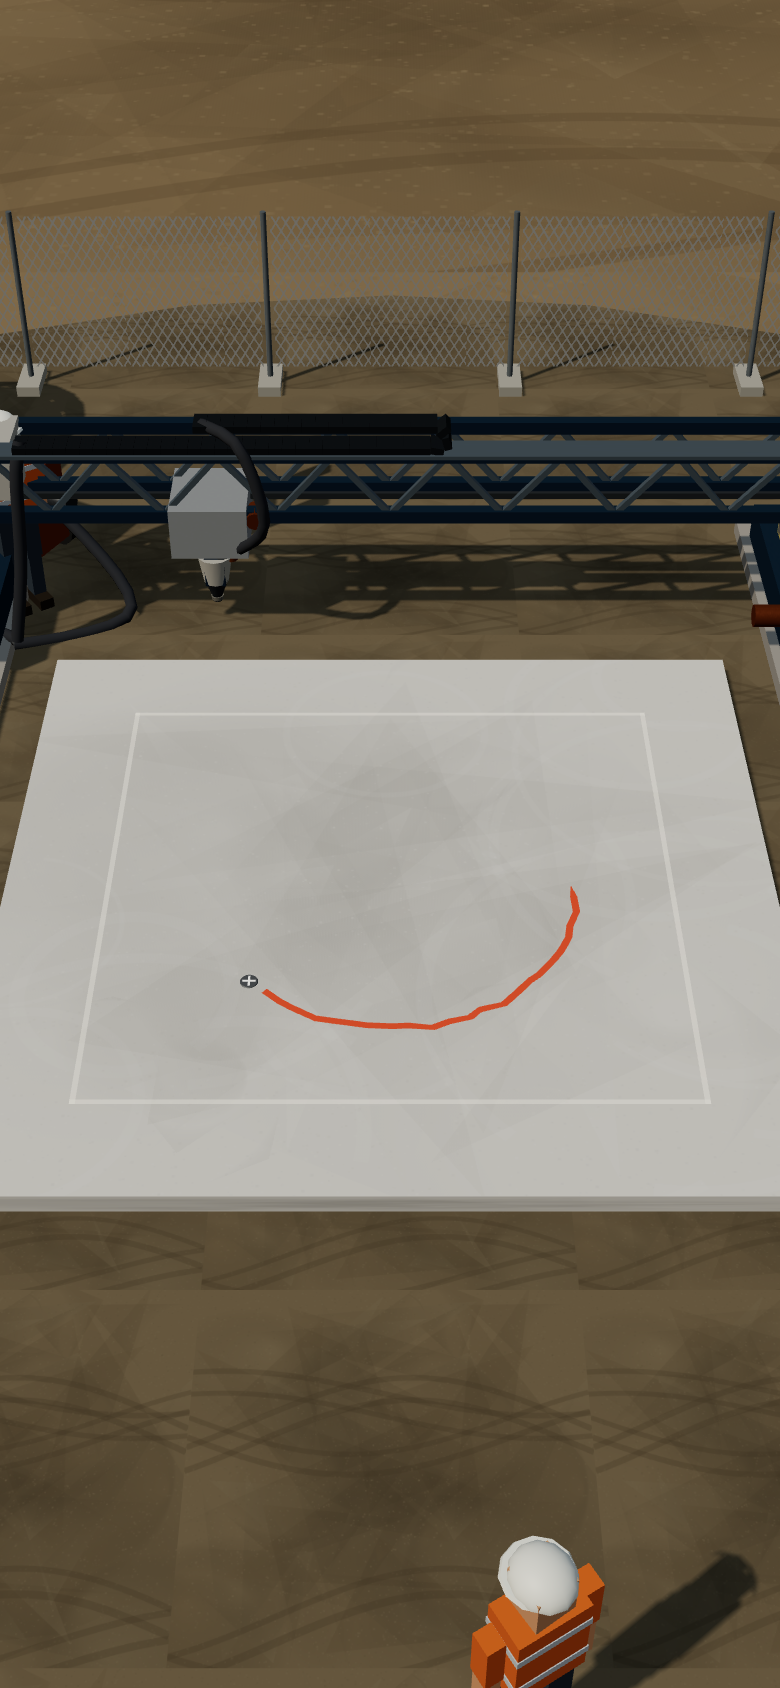
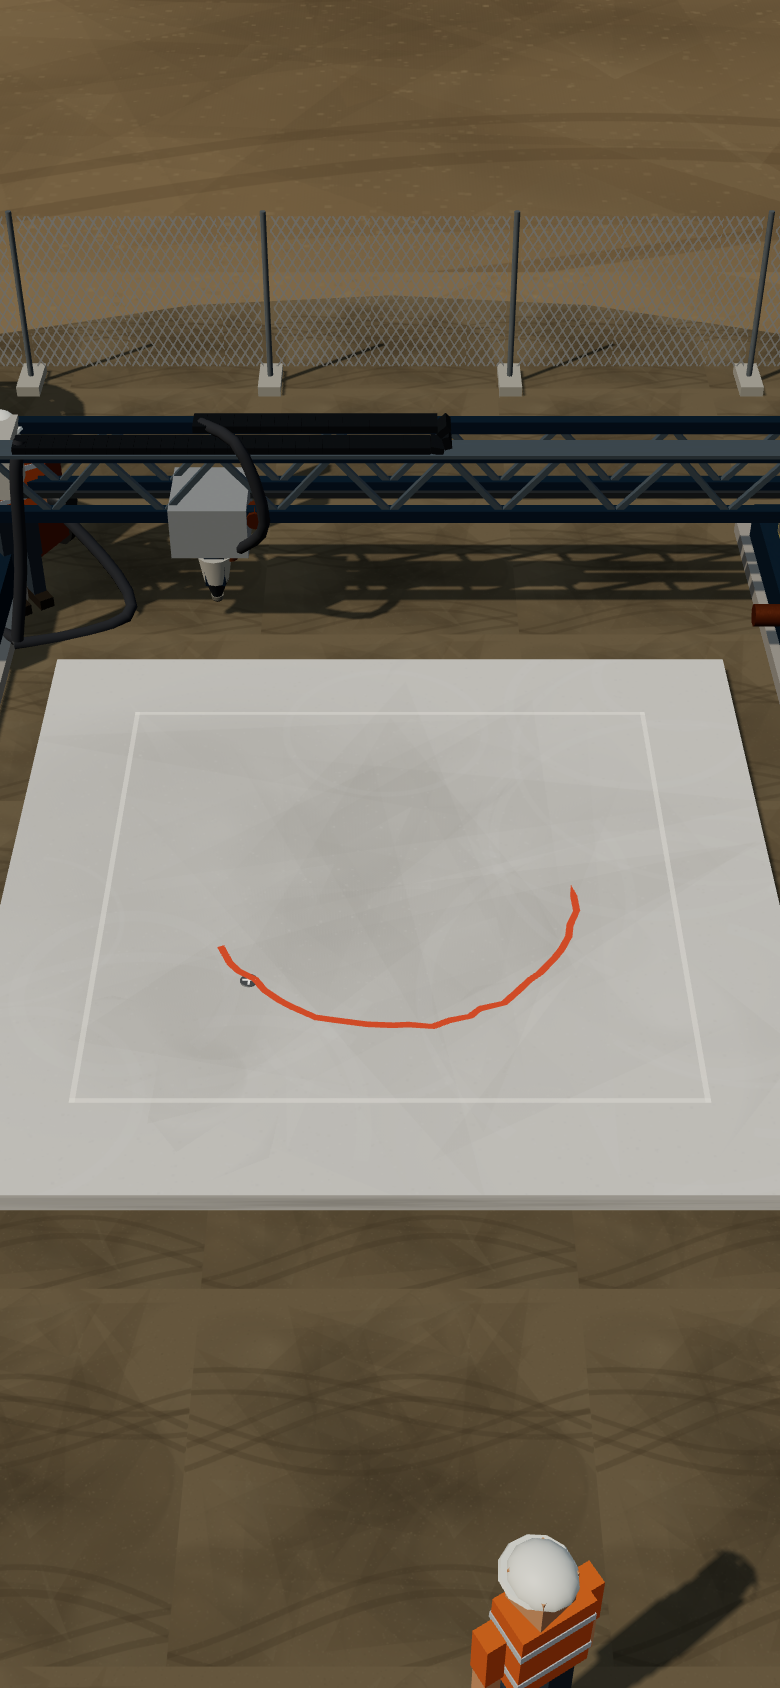
homing堅牢化（トラベル速度1.3m/s+開始保証）・検証タイムアウト調整・ブラインド判定用素材
Claude-Session: https://claude.ai/code/session_01YM9BXMVKQkXAStQHo3jTsD

Changed region(s): [[0.6154, 0.9242, 0.7692, 1.0], [0.2769, 0.5545, 0.3385, 0.5853], [0.6769, 0.8934, 0.7077, 0.9242]]

diff --git a/src/game.ts b/src/game.ts
@@ -189,6 +189,12 @@ export class Game {
         this.gantry.update(dt, null, park ?? { x: this.gantry.posX, z: this.gantry.posZ }, dt);
         const dx = Math.abs(this.gantry.posX - s0.x), dz = Math.abs(this.gantry.posZ - s0.z);
         if (this.phaseT > 1.2 && dx < 0.02 && dz < 0.02) this.startPrint();
+        // 低fps環境でも開始を保証するセーフティネット
+        else if (this.phaseT > 14) {
+          this.gantry.posX = s0.x;
+          this.gantry.posZ = s0.z;
+          this.startPrint();
+        }
         break;
       }
 

diff --git a/src/scene/gantry.ts b/src/scene/gantry.ts
@@ -422,8 +422,8 @@ export class Gantry {
       this.posZ = targetZ;
       this.beamY = targetTipY + this.headHang;
     } else if (park) {
-      // 待機/ homing: 有限速度で移動
-      const vLim = 0.9 * dt;
+      // 待機/ homing: 有限速度で移動（トラベル速度は印刷より速い）
+      const vLim = 1.3 * dt;
       const dx = clamp(park.x - this.posX, -vLim, vLim);
       const dz = clamp(park.z - this.posZ, -vLim, vLim);
       this.posX += dx;
